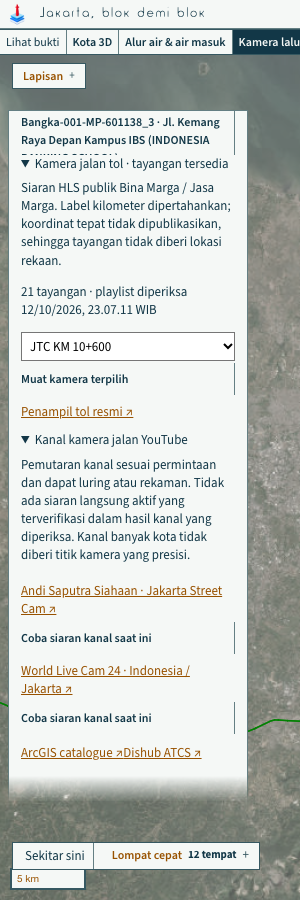
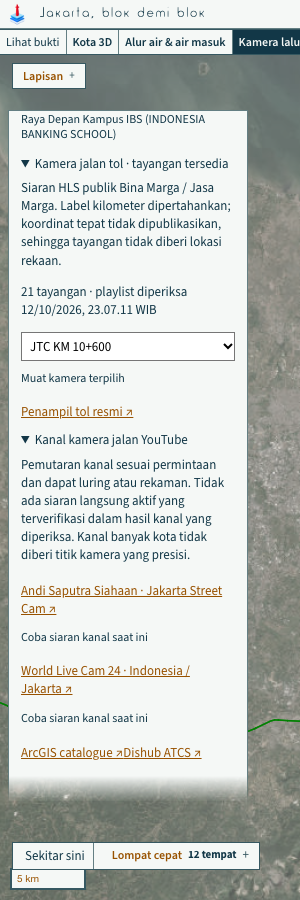
docs: record the verified live panel-control release
The receipt of the pass: docs/PANEL-CONTROL-AUDIT-2026-10-26.md, in the law's
§7 form, with the pixels and the measurements it claims.

Released jakarta-atlas-20261026-1792977256-b87cfd4. Verified against the
deployed bytes: the rendered audit 68/68, the geometry audit PASS over 5
viewports x 11 lenses with the disclosures open, and the traffic lens's panel
measured live with every disclosure open — 36 controls, 0 slabs, the three
offenders now 32px round a 16px line, the stray hairline gone.

Agent: mcode

diff --git a/docs/PANEL-CONTROL-AUDIT-2026-10-26.md b/docs/PANEL-CONTROL-AUDIT-2026-10-26.md
@@ -60,7 +60,16 @@ panel body to cross **160 characters**. The traffic panel fills in stages — th
 camera catalogue, then the toll catalogue — so it crossed 160 characters at
 its first paragraph and was measured there.
 
-**5. An ad-hoc probe of my own missed one of the four.** A sweep of 190 panel
+**5. And the rail's rule was never scoped to the rail.** The rail is a `<nav>`
+whose first child is the evidence panel, so `.atlas-lenses button` — the rule
+that describes the rail's sixteen tabs — also reached the panel's thirty-three
+controls. It gave them the rail's hairline separator: a stray 1px vertical
+rule down the right of every panel button, in the middle of the panel, beside
+text. It also gave them the rail's 44px height, which is how three of them
+became slabs. A rule that is not scoped to what it describes reaches the thing
+next door and dresses it wrong.
+
+**6. An ad-hoc probe of my own missed one of the four.** A sweep of 190 panel
 buttons across 14 lenses, with every disclosure open, found three slabs. The
 gate found four: the air lens's transport button arrives later than the probe
 waited. The gate is the instrument; the probe was a look around it.
@@ -69,11 +78,18 @@ waited. The gate is the instrument; the probe was a look around it.
 
 ## Changed
 
-**`public/style.css`** — the floor is now the house style:
-`#atlas-lens-body button { min-height:32px; padding:4px 0; }`. A control is its
-label plus padding; a dense list row may still go tighter
-(`.lens-row--button`). This fixes the class, not the four instances: the next
-control nobody remembers to carve out is right by default.
+**`public/style.css`** — two changes. The floor is now the house style:
+`#atlas-lens-body button { min-height:32px; padding:4px 0; }`, with the resets
+the panel had been inheriting from the rail by accident — transparent, the
+panel's ink and type, clickable, no border. A control is its label plus
+padding; a dense list row may still go tighter (`.lens-row--button`). This
+fixes the class, not the four instances: the next control nobody remembers to
+carve out is right by default.
+
+And the rail's rule is scoped to the rail (`.atlas-lenses > button`), so it
+stops dressing the panel. The rail itself is unchanged: measured live and
+local at 1440 and 390, the lens tab and the "Lihat bukti" summary render
+identically — 24px, 12px, a 1px separator.
 
 **`scripts/geometry-audit.mjs`**
 - the sweep now names every lens that carries a panel — `traffic` and
@@ -96,9 +112,14 @@ control back on the 44px floor and requires the check to report it.
 44px, the sweep names every lens, and the audit opens the disclosures and
 waits for the panel to settle.
 
-**`scripts/mutate-lens-evidence.mjs`** — three more mutants: the floor goes
-back to 44px, the traffic lens leaves the sweep, the audit stops opening the
-disclosures. **7/7 killed.**
+**`scripts/mutate-lens-evidence.mjs`** — four more mutants: the floor goes
+back to 44px, the traffic lens leaves the sweep, the rail's rule reaches the
+panel again, the audit stops opening the disclosures. **8/8 killed.**
+
+The harness now says so out loud too. A mutant whose anchor has gone stale is
+an unverified guard, not a pass: one had gone stale — the floor mutant broke
+because the rule grew a property — and the harness printed "7/8" without saying
+which one it had not checked. It counts skips now, and fails on them.
 
 **`docs/ANTI-SLOP-DESIGN.md` → 1.12**, the shared law → 1.13.
 
@@ -110,11 +131,18 @@ disclosures. **7/7 killed.**
 |---|---|
 | `npm run typecheck` | 0 errors |
 | `npm run verify` | 13/13 |
-| `npm test` | exit 0 — including **7/7** lens mutants killed |
+| `npm test` | exit 0 — including **8/8** lens mutants killed, no skips |
 | `node scripts/audit-rendered.mjs` (local build, with the fix) | **68/68** |
+| `node scripts/audit-rendered.mjs` (live) | **68/68** against `https://jakarta.nonarkara.org` |
 | `node scripts/geometry-audit.mjs` (live, before the fix) | **FAILED with 4 problems** — the guard bites on the shipped defect |
-| `node scripts/geometry-audit.mjs` (live, after the fix) | see the release note below |
-| `npm run release` | see the release note below |
+| `node scripts/geometry-audit.mjs` (live, after the fix) | **PASS** — 5 viewports × 11 lenses, exit 0 |
+| Live traffic panel, disclosures open | 36 controls, **0 slabs**; the three offenders are 32px round a 16px line |
+| Live air panel, disclosures open | 4 controls, **0 slabs** |
+| `npm run release` | exit 0 — `jakarta-atlas-20261026-1792977256-b87cfd4` |
+
+The live measurements are in `docs/panel-control-2026-10-26/panel-controls-live.json`;
+the pixels are `traffic-panel-open-1440.png`, `traffic-channels-after-1440.png`
+and `air-panel-open-1440.png`.
 
 The "before" row is the proof that matters: the widened, disclosure-opening
 sweep **fails on the shipped build**, and the four lines it prints are the
@@ -140,18 +168,27 @@ defect, named.
    panel says it is loading; the specific figures in the 26 October follow-up
    (0.74 s / 0.36 s) did not reproduce from here.
 
-3. **The geometry audit is not in the release path.** It is the instrument
-   that found all four defects, and it runs by hand. Adding it to
-   `scripts/deploy-live.sh` would put the rule in force at the only moment it
-   matters, at the cost of roughly twenty minutes a release. That is the
-   owner's call, not this pass's.
+3. **The geometry audit is not in the release path.** The *control* rule is:
+   `scripts/audit-rendered.mjs` runs against the deployed bytes on every
+   release and now requires that no panel control is bigger than its own text.
+   The broader sweep — every lens, every viewport, overlap and overflow and
+   touch targets — is the instrument that found all four defects, and it runs
+   by hand. Putting it in `scripts/deploy-live.sh` would put the whole sweep
+   in force at the only moment it matters, at the cost of roughly twenty-five
+   minutes a release. That is the owner's call, not this pass's.
 
-4. **Owner-account items, unchanged:** the Perplexity connector (absent from
+4. **The traffic lens is in the geometry sweep but not in the release-path
+   sweep.** The rendered audit visits the waterways lens, whose panel holds 61
+   controls — more than the traffic lens's 33 — so the rule is in force at
+   release time on the biggest panel in the product. The traffic lens's own 33
+   are swept by hand.
+
+5. **Owner-account items, unchanged:** the Perplexity connector (absent from
    the catalogue), the GitHub Actions spending limit (manual push path in use)
    and the Cloudflare rate-limit namespace (one dashboard step, then uncomment
    `[[ratelimits]]` in `wrangler.toml`).
 
-5. **Open by design:** field validation and calibrated flood forecasting
+6. **Open by design:** field validation and calibrated flood forecasting
    (`docs/ADMIN-READINESS.md`).
 
 ---
